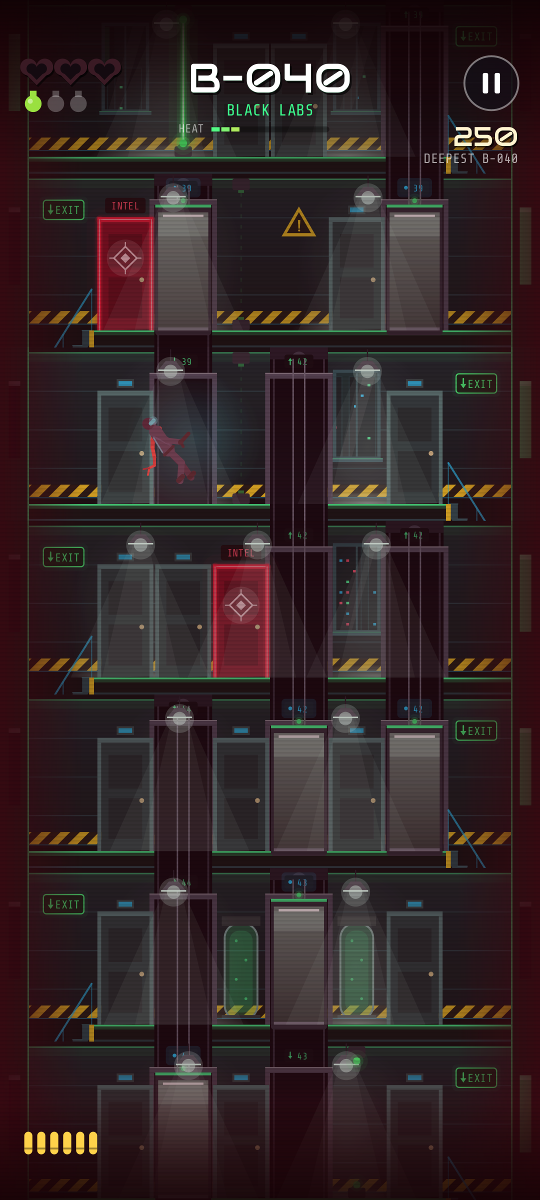
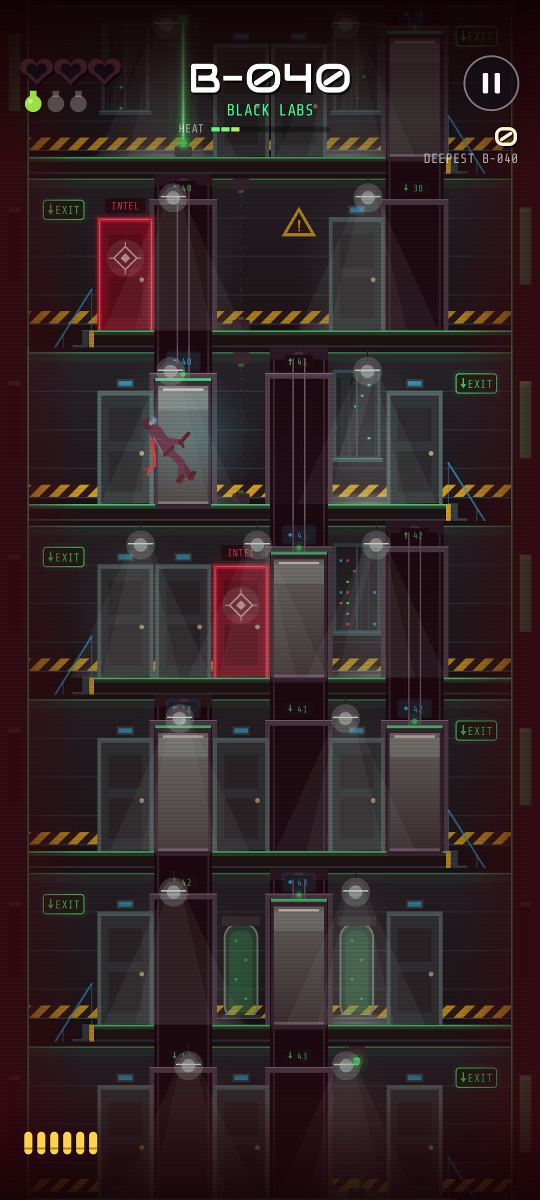
Address Codex review: determinism, input, audio, loop and CI fixes
- Simulated floor window follows the player, not the camera, and floors
  furnish themselves from per-floor RNG streams; cosmetic vent embers use
  the FX RNG. A run no longer depends on screen shape (new test).
- Emit HazardFire once per activation (new test).
- Pausing cancels held fingers, so a run drag can't stick after resume.
- Game loop uses a per-thread token; a slow-to-exit loop can't be revived.
- Reset slow-mo audio when a run ends or returns to the title.
- Rebuild a dead AudioTrack immediately instead of staying silent.
- Prune elevator door animation state for culled shafts.
- Autopilot waits for its grenade to land before throwing another.
- CI runs on pushes to every branch.

Claude-Session: https://claude.ai/code/session_01TgJ7WCRQZ4wT9GsVjU1NBS

diff --git a/app/src/main/java/com/bradflaugher/aboutthataction/engine/World.kt b/app/src/main/java/com/bradflaugher/aboutthataction/engine/World.kt
@@ -207,14 +207,18 @@ class World(val config: RunConfig) {
 
     fun floor(index: Int): FloorState? = floors[index]
 
+    /**
+     * The simulated window follows the player, never the camera: which floors
+     * exist (and so every random roll) must not depend on the screen's shape.
+     * It is tall enough to fill the tallest phones.
+     */
     private fun ensureFloors() {
-        val top = max(0, floor(camY / Geo.FLOOR_H).toInt() - 1)
-        val bottom = floor((camY + viewH) / Geo.FLOOR_H).toInt() + 1
-        for (f in top..max(bottom, player.floor + 1)) {
+        val top = max(0, player.floor - FLOORS_ABOVE)
+        for (f in top..player.floor + FLOORS_BELOW) {
             if (f !in floors) buildFloor(f)
         }
         // Floors scrolled off the top never come back: we only go down.
-        val cull = min(top, player.floor - 2)
+        val cull = top
         while (floors.isNotEmpty() && floors.firstKey() < cull) {
             val gone = floors.pollFirstEntry().key
             enemies.removeAll { it.floor == gone }
@@ -229,9 +233,11 @@ class World(val config: RunConfig) {
         val plan = LevelGen.build(seed, f, difficulty)
         val state = FloorState(plan)
         floors[f] = state
+        // Each floor furnishes itself from its own stream, whenever it's built.
+        val rng = Rng.forKey(seed, 0xB1D5L, f.toLong())
         val arrivalX = if (plan.arrival == Side.LEFT) 0f else Geo.FLOOR_W
         for (s in plan.spawns) {
-            val e = spawnEnemy(s.kind, s.x, f, if (rng.chance(0.5f)) 1 else -1)
+            val e = spawnEnemy(s.kind, s.x, f, if (rng.chance(0.5f)) 1 else -1, rng)
             // Deeper down, some guards are already watching the stairs.
             if (f > 0 && rng.chance((plan.heat * 0.22f).coerceAtMost(0.7f))) e.facing = if (arrivalX > e.x) 1 else -1
         }
@@ -246,7 +252,7 @@ class World(val config: RunConfig) {
         }
     }
 
-    private fun spawnEnemy(kind: EnemyKind, x: Float, floor: Int, facing: Int): Enemy {
+    private fun spawnEnemy(kind: EnemyKind, x: Float, floor: Int, facing: Int, rng: Rng = this.rng): Enemy {
         val e = Enemy(nextEnemyId++, kind, x, floor, facing)
         val hp = Heat.enemyHp(kind, LevelGen.zoneAndHeat(seed, floor, difficulty).second)
         e.hp = hp
@@ -1291,6 +1297,8 @@ class World(val config: RunConfig) {
             for (h in fs.plan.hazards) {
                 val live = h.state(time) >= 1f
                 if (!live) continue
+                // Announce each activation once, on the off-to-live edge, where the player is.
+                if (h.state(time - dt) < 1f && f == player.floor) events += GameEvent.HazardFire(pan(h.x))
                 val width = if (h.kind == HazardKind.LASER) 0.22f else 0.42f
                 val height = if (h.kind == HazardKind.LASER) Geo.FLOOR_H else 0.95f
                 if (player.floor == f && playerVisibleOn(f) || player.state == PlayerState.BOX && player.floor == f) {
@@ -1301,7 +1309,7 @@ class World(val config: RunConfig) {
                         kill(e, KillMethod.HAZARD, if (e.x >= h.x) 1 else -1)
                     }
                 }
-                if (h.kind == HazardKind.VENT && rng.chance(dt * 30f)) {
+                if (h.kind == HazardKind.VENT && fx.chance(dt * 30f)) {
                     fx.burst(ParticleKind.EMBER, h.x, Geo.groundY(f) - 0.1f, 1, 3f, 0.5f, 0.12f, upBias = 1.2f)
                 }
             }
@@ -1485,6 +1493,8 @@ class World(val config: RunConfig) {
         const val TAKEDOWN_TIME = 0.36f
         const val STAIRS_TIME = 0.5f
         const val COMBO_WINDOW = 2.6f
+        const val FLOORS_ABOVE = 4
+        const val FLOORS_BELOW = 7
         const val RELOAD_TIME = 1.05f
         const val TACTICAL_RELOAD_DELAY = 1.4f
         const val LIGHT_FALL_TIME = 0.42f

diff --git a/app/src/main/java/com/bradflaugher/aboutthataction/GameView.kt b/app/src/main/java/com/bradflaugher/aboutthataction/GameView.kt
@@ -48,7 +48,12 @@ class GameView(context: Context, private val host: Host) : SurfaceView(context),
     /** Attract mode: the world ignores touches, hides the HUD and plays itself. */
     @Volatile var attract = true
     @Volatile var autopilot: Autopilot? = null
+    /** While paused, touches are ignored and any held finger is forgotten. */
     @Volatile var paused = false
+        set(value) {
+            field = value
+            if (value) synchronized(inputLock) { input.cancelAll() }
+        }
     @Volatile var topInset = 0f
     @Volatile var bottomInset = 0f
     @Volatile var touchGuide = true
@@ -61,8 +66,8 @@ class GameView(context: Context, private val host: Host) : SurfaceView(context),
     private val pendingPerk = AtomicInteger(-1)
     private val main = Handler(Looper.getMainLooper())
 
-    @Volatile private var running = false
-    private var thread: Thread? = null
+    /** The one live loop thread; a loop exits as soon as it's no longer this. */
+    @Volatile private var thread: Thread? = null
     private var accumulator = 0.0
     @Volatile private var reportedOver = false
     private val startNanos = System.nanoTime()
@@ -77,8 +82,7 @@ class GameView(context: Context, private val host: Host) : SurfaceView(context),
     override fun surfaceDestroyed(holder: SurfaceHolder) = stopLoop()
 
     private fun startLoop() {
-        if (running) return
-        running = true
+        if (thread != null) return
         thread = Thread(::loop, "game-loop").also {
             it.priority = Thread.MAX_PRIORITY - 1
             it.start()
@@ -86,14 +90,15 @@ class GameView(context: Context, private val host: Host) : SurfaceView(context),
     }
 
     private fun stopLoop() {
-        running = false
-        thread?.join(500)
+        val old = thread
         thread = null
+        old?.join(500)
     }
 
     private fun loop() {
         var last = System.nanoTime()
-        while (running) {
+        val me = Thread.currentThread()
+        while (thread === me) {
             val now = System.nanoTime()
             val frame = ((now - last) / 1e9).coerceAtMost(0.1)
             last = now

diff --git a/app/src/main/java/com/bradflaugher/aboutthataction/MainActivity.kt b/app/src/main/java/com/bradflaugher/aboutthataction/MainActivity.kt
@@ -52,9 +52,9 @@ class MainActivity : ComponentActivity(), GameView.Host {
     private var runSeedLabel = ""
     private var runConfig: RunConfig? = null
 
-    // Music state, touched only on the game thread.
-    private var musicZone: Zone? = null
-    private var musicSlowMo = false
+    // Music state, driven from the game thread and reset on the main thread between runs.
+    @Volatile private var musicZone: Zone? = null
+    @Volatile private var musicSlowMo = false
     private var musicFrame = 0
 
     override fun onCreate(savedInstanceState: Bundle?) {
@@ -160,6 +160,7 @@ class MainActivity : ComponentActivity(), GameView.Host {
         gameView.autopilot = Autopilot(seed)
         gameView.world = World(RunConfig(seed, Difficulty.Preset.CHILL.difficulty))
         musicZone = null
+        endSlowMo()
         if (music) sound.playTitle()
     }
 
@@ -239,6 +240,12 @@ class MainActivity : ComponentActivity(), GameView.Host {
         if (++musicFrame % 15 == 0) sound.setIntensity(world.intensity)
     }
 
+    /** A run can end mid bullet-time; don't let the menus play slowed down. */
+    private fun endSlowMo() {
+        musicSlowMo = false
+        sound.setSlowMo(false)
+    }
+
     override fun onDemoOver() {
         if (gameView.attract && screen != Screen.PLAYING) showAttract(music = false)
     }
@@ -265,6 +272,7 @@ class MainActivity : ComponentActivity(), GameView.Host {
             newBestScore = newBestScore,
             newBestFloor = newBestFloor,
         )
+        endSlowMo()
         sound.gameOver()
         screen = Screen.GAME_OVER
     }

diff --git a/app/src/test/java/com/bradflaugher/aboutthataction/engine/MechanicsTest.kt b/app/src/test/java/com/bradflaugher/aboutthataction/engine/MechanicsTest.kt
@@ -383,6 +383,34 @@ class MechanicsTest {
     }
 
     @Test
+    fun hazardsAnnounceEachActivationOnce() {
+        var seed = 1L
+        var floor = -1
+        while (floor < 0) {
+            floor = (25..49).firstOrNull { LevelGen.build(seed, it, Difficulty()).hazards.isNotEmpty() } ?: -1
+            if (floor < 0) seed++
+        }
+        val w = world(floor = floor, seed = seed)
+        w.player.state = PlayerState.DOOR // out of harm's way
+        val h = w.floor(floor)!!.plan.hazards.first()
+        var fires = 0
+        run(w, h.period * 3f) { fires += it.events.count { e -> e is GameEvent.HazardFire }; it.events.clear() }
+        assertTrue("fires $fires over 3 periods", fires in 2..4 * w.floor(floor)!!.plan.hazards.size)
+    }
+
+    @Test
+    fun screenShapeNeverChangesTheRun() {
+        fun play(aspect: Float): Triple<Long, Int, Int> {
+            val w = World(RunConfig(777L, Difficulty(startFloor = 60)))
+            w.viewAspect = aspect
+            val pilot = Autopilot(3L)
+            run(w, 45f) { pilot.act(it) }
+            return Triple(w.score, w.kills, w.deepest)
+        }
+        assertEquals(play(1.8f), play(2.4f))
+    }
+
+    @Test
     fun sameInputsReplayTheSameRun() {
         fun play(): Pair<Long, Int> {
             val w = World(RunConfig(4242L))

diff --git a/app/src/main/java/com/bradflaugher/aboutthataction/engine/Autopilot.kt b/app/src/main/java/com/bradflaugher/aboutthataction/engine/Autopilot.kt
@@ -16,11 +16,13 @@ class Autopilot(seed: Long, private val missOneIn: Int = 3) {
     private val judged = HashSet<Bullet>()
     private var tapCooldown = 0f
     private var dodgeCooldown = 0f
+    private var grenadeCooldown = 0f
 
     /** Decide this step's input. Call once before every [World.step] of [dt]. */
     fun act(w: World, dt: Float = 1f / 120f) {
         tapCooldown -= dt
         dodgeCooldown -= dt
+        grenadeCooldown -= dt
         if (judged.size > 64) {
             judged.retainAll(w.bullets.toSet())
             ignored.retainAll(judged)
@@ -67,7 +69,10 @@ class Autopilot(seed: Long, private val missOneIn: Int = 3) {
                 w.commands += Command.TAP
                 tapCooldown = 0.25f
             }
-            if (enemies.size >= 3 && p.grenades > 0) w.commands += Command.DOUBLE_TAP
+            if (enemies.size >= 3 && p.grenades > 0 && grenadeCooldown <= 0f && w.grenades.isEmpty()) {
+                w.commands += Command.DOUBLE_TAP
+                grenadeCooldown = 1.5f
+            }
             // Close enough to choke? Walk in.
             w.moveAxis = if (abs(nearest.x - p.x) < 1.5f && nearest.kind != EnemyKind.HEAVY) (if (nearest.x > p.x) 1 else -1) else 0
             return

diff --git a/app/src/main/java/com/bradflaugher/aboutthataction/audio/AudioOutput.kt b/app/src/main/java/com/bradflaugher/aboutthataction/audio/AudioOutput.kt
@@ -133,6 +133,14 @@ class AudioOutput(private val engine: SoundEngine) {
                 break
             }
         }
+        // The track died mid-session (route or device change): rebuild it
+        // off this thread rather than staying silent until the next resume.
+        if (dead && running && !paused) {
+            Thread({
+                Thread.sleep(300)
+                if (dead) start()
+            }, "ata-audio-restart").start()
+        }
     }
 
     private companion object {

diff --git a/app/src/main/java/com/bradflaugher/aboutthataction/render/Building.kt b/app/src/main/java/com/bradflaugher/aboutthataction/render/Building.kt
@@ -653,6 +653,8 @@ internal class Building(private val f: Frame) {
     /** Elevator cars drawn over the floors; the player rides inside, behind glass doors. */
     fun elevators(actors: Actors) {
         val w = f.w
+        // Forget door animation state for shafts the world has culled.
+        if (carOpen.size > w.elevators.size) carOpen.keys.retainAll(w.elevators.keys)
         for (car in w.elevators.values) {
             val s = car.shaft
             val yb = Geo.groundY(car.pos)

diff --git a/app/src/main/java/com/bradflaugher/aboutthataction/engine/Fx.kt b/app/src/main/java/com/bradflaugher/aboutthataction/engine/Fx.kt
@@ -55,6 +55,9 @@ class Fx(private val rng: Rng) {
         texts += FloatingText(text, x, y, style, life)
     }
 
+    /** Cosmetic randomness only: never feeds back into gameplay. */
+    fun chance(p: Float): Boolean = rng.chance(p)
+
     fun update(dt: Float) {
         val it = particles.iterator()
         while (it.hasNext()) {
